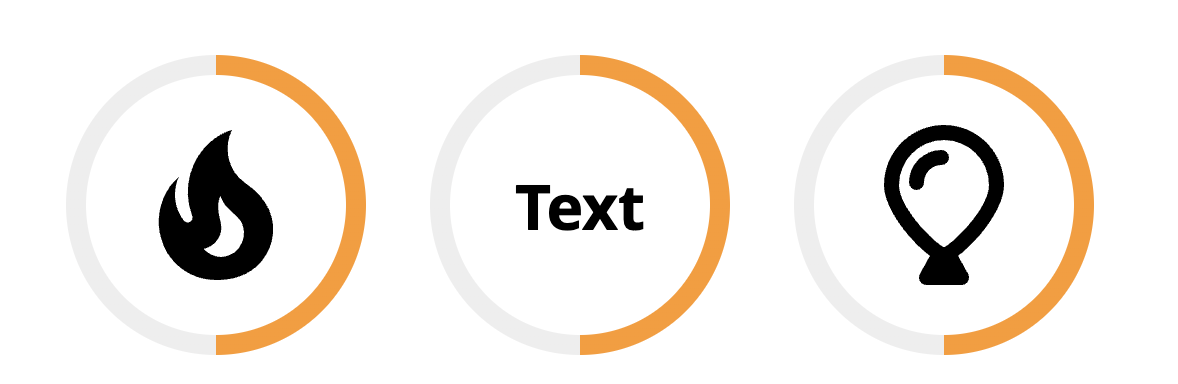
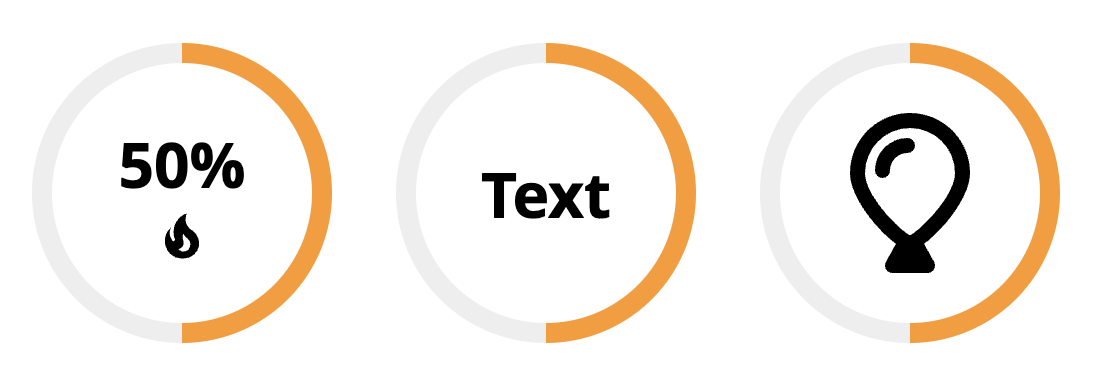
added readme

diff --git a/src/routes/+page.svelte b/src/routes/+page.svelte
@@ -80,8 +80,8 @@
   <h1>Custom content</h1>
   <div class="showingrid">
 
-  <Progress size="150" progress="50" customContent=true>
-    <svg width="100" height="100" viewBox="0 0 24 24"> <path fill="#000" d="M17.55,11.2C17.32,10.9 17.05,10.64 16.79,10.38C16.14,9.78 15.39,9.35 14.76,8.72C13.3,7.26 13,4.85 13.91,3C13,3.23 12.16,3.75 11.46,4.32C8.92,6.4 7.92,10.07 9.12,13.22C9.16,13.32 9.2,13.42 9.2,13.55C9.2,13.77 9.05,13.97 8.85,14.05C8.63,14.15 8.39,14.09 8.21,13.93C8.15,13.88 8.11,13.83 8.06,13.76C6.96,12.33 6.78,10.28 7.53,8.64C5.89,10 5,12.3 5.14,14.47C5.18,14.97 5.24,15.47 5.41,15.97C5.55,16.57 5.81,17.17 6.13,17.7C7.17,19.43 9,20.67 10.97,20.92C13.07,21.19 15.32,20.8 16.93,19.32C18.73,17.66 19.38,15 18.43,12.72L18.3,12.46C18.1,12 17.83,11.59 17.5,11.21L17.55,11.2M14.45,17.5C14.17,17.74 13.72,18 13.37,18.1C12.27,18.5 11.17,17.94 10.5,17.28C11.69,17 12.39,16.12 12.59,15.23C12.76,14.43 12.45,13.77 12.32,13C12.2,12.26 12.22,11.63 12.5,10.94C12.67,11.32 12.87,11.7 13.1,12C13.86,13 15.05,13.44 15.3,14.8C15.34,14.94 15.36,15.08 15.36,15.23C15.39,16.05 15.04,16.95 14.44,17.5H14.45Z" /> </svg>
+  <Progress size="150" progress="50" customContent=false>
+    <svg width="30" height="30" viewBox="0 0 24 24"> <path fill="#000" d="M17.55,11.2C17.32,10.9 17.05,10.64 16.79,10.38C16.14,9.78 15.39,9.35 14.76,8.72C13.3,7.26 13,4.85 13.91,3C13,3.23 12.16,3.75 11.46,4.32C8.92,6.4 7.92,10.07 9.12,13.22C9.16,13.32 9.2,13.42 9.2,13.55C9.2,13.77 9.05,13.97 8.85,14.05C8.63,14.15 8.39,14.09 8.21,13.93C8.15,13.88 8.11,13.83 8.06,13.76C6.96,12.33 6.78,10.28 7.53,8.64C5.89,10 5,12.3 5.14,14.47C5.18,14.97 5.24,15.47 5.41,15.97C5.55,16.57 5.81,17.17 6.13,17.7C7.17,19.43 9,20.67 10.97,20.92C13.07,21.19 15.32,20.8 16.93,19.32C18.73,17.66 19.38,15 18.43,12.72L18.3,12.46C18.1,12 17.83,11.59 17.5,11.21L17.55,11.2M14.45,17.5C14.17,17.74 13.72,18 13.37,18.1C12.27,18.5 11.17,17.94 10.5,17.28C11.69,17 12.39,16.12 12.59,15.23C12.76,14.43 12.45,13.77 12.32,13C12.2,12.26 12.22,11.63 12.5,10.94C12.67,11.32 12.87,11.7 13.1,12C13.86,13 15.05,13.44 15.3,14.8C15.34,14.94 15.36,15.08 15.36,15.23C15.39,16.05 15.04,16.95 14.44,17.5H14.45Z" /> </svg>
   </Progress>  
 
   <Progress size="150" progress="50" customContent="true">

diff --git a/README.md b/README.md
@@ -1,58 +1,112 @@
-# create-svelte
+# Progress circle for SvelteKit
 
-Everything you need to build a Svelte library, powered by [`create-svelte`](https://github.com/sveltejs/kit/tree/master/packages/create-svelte).
-
-Read more about creating a library [in the docs](https://kit.svelte.dev/docs/packaging).
-
-## Creating a project
-
-If you're seeing this, you've probably already done this step. Congrats!
-
-```bash
-# create a new project in the current directory
-npm create svelte@latest
-
-# create a new project in my-app
-npm create svelte@latest my-app
+## Install
+Use your package manager to install the module:
+```shell
+npm install @bonosoft/sveltekit-progress
 ```
 
-## Developing
+## Adding Progress to a svelte file in SvelteKit
+Now you can start adding progress components to your pages.
+```ts
+<script lang="ts">
+	import Progress from "@bonosoft/sveltekit-progress"
+</script>
 
-Once you've created a project and installed dependencies with `npm install` (or `pnpm install` or `yarn`), start a development server:
-
-```bash
-npm run dev
-
-# or start the server and open the app in a new browser tab
-npm run dev -- --open
+<Progress progress="50"/>
 ```
 
-Everything inside `src/lib` is part of your library, everything inside `src/routes` can be used as a showcase or preview app.
-
-## Building
-
-To build your library:
-
-```bash
-npm run package
+# Sample code
+![Progress circles](https://github.com/bonosoft/sveltekit-progress/blob/c0bd0533f7766ad54eca52ef3121d0d657d8b2be/readme/style1.png?raw=true)
+```ts
+<Progress progress="0"/>
+<Progress progress="25"/>
+<Progress progress="50"/>
+<Progress progress="75"/>
+<Progress progress="100"/>
 ```
 
-To create a production version of your showcase app:
+## Front, back and border colors, for use in dark mode
 
-```bash
-npm run build
+![Progress circles](https://github.com/bonosoft/sveltekit-progress/blob/c0bd0533f7766ad54eca52ef3121d0d657d8b2be/readme/style2.png?raw=true)
+
+```ts
+<Progress progress="0"   textColor="#eee" bgcolor="#111" borderColor="#333"/>
+<Progress progress="25"  textColor="#eee" bgcolor="#111" borderColor="#333"/>
+<Progress progress="50"  textColor="#eee" bgcolor="#111" borderColor="#333"/>
+<Progress progress="75"  textColor="#eee" bgcolor="#111" borderColor="#333"/>
+<Progress progress="100" textColor="#eee" bgcolor="#111" borderColor="#333"/>
+
+<Progress progress="30" color="#29F" textColor="#eee" bgcolor="#111" borderColor="#333"/>
+<Progress progress="40" color="#2F2" textColor="#eee" bgcolor="#111" borderColor="#333"/>
+<Progress progress="50" color="#F92" textColor="#eee" bgcolor="#111" borderColor="#333"/>
+<Progress progress="60" color="#F22" textColor="#eee" bgcolor="#111" borderColor="#333"/>
+<Progress progress="70" color="#92F" textColor="#eee" bgcolor="#111" borderColor="#333"/>
 ```
 
-You can preview the production build with `npm run preview`.
 
-> To deploy your app, you may need to install an [adapter](https://kit.svelte.dev/docs/adapters) for your target environment.
+## Front, back and border colors
 
-## Publishing
+![Progress circles](https://github.com/bonosoft/sveltekit-progress/blob/c0bd0533f7766ad54eca52ef3121d0d657d8b2be/readme/style3.png?raw=true)
 
-Go into the `package.json` and give your package the desired name through the `"name"` option. Also consider adding a `"license"` field and point it to a `LICENSE` file which you can create from a template (one popular option is the [MIT license](https://opensource.org/license/mit/)).
+```ts
+<Progress progress="30" color="#29F" textColor="#29F"/>
+<Progress progress="40" textColor="#F22"/>
+<Progress progress="50" textColor="#29F" labelText="Online"/>
+<Progress progress="60" labelText="Backup"/>
+<Progress progress="70" textColor="#292" borderColor="#F22"/>
+```
 
-To publish your library to [npm](https://www.npmjs.com):
 
-```bash
-npm publish
+
+## Size
+
+![Progress circles](https://github.com/bonosoft/sveltekit-progress/blob/c0bd0533f7766ad54eca52ef3121d0d657d8b2be/readme/style4.png?raw=true)
+
+```ts
+<Progress progress=0 size=30/>
+<Progress progress=25 size=50/>
+<Progress progress=50 size=70/>
+<Progress progress=75 size=90/>
+<Progress progress=100 size=110/>
+```
+
+
+## Border width
+
+![Progress circles](https://github.com/bonosoft/sveltekit-progress/blob/c0bd0533f7766ad54eca52ef3121d0d657d8b2be/readme/style5.png?raw=true)
+```ts
+<Progress progress=0 borderWeight="1"/>
+<Progress progress=25 borderWeight="3"/>
+<Progress progress=50 borderWeight="8"/>
+<Progress progress=75 borderWeight="15"/>
+<Progress progress=100 borderWeight="20"/>
+```
+
+## Border radius
+
+![Progress circles](https://github.com/bonosoft/sveltekit-progress/blob/c0bd0533f7766ad54eca52ef3121d0d657d8b2be/readme/style6.png?raw=true)
+```ts
+<Progress progress=12.5 borderRadius=0/>
+<Progress progress=25 borderRadius=15/>
+<Progress progress=50 borderRadius=30/>
+<Progress progress=85 borderRadius=40/>
+<Progress progress=100 borderRadius=50/>
+```
+
+## Showing you own center content
+
+![Progress circles](https://github.com/bonosoft/sveltekit-progress/blob/c0bd0533f7766ad54eca52ef3121d0d657d8b2be/readme/style7.png?raw=true)
+```ts
+<Progress size="150" progress="50" customContent=false>
+ <svg width="30" height="30" viewBox="0 0 24 24"> <path.../> </svg>
+</Progress>  
+
+<Progress size="150" progress="50" customContent="true">
+ Text
+</Progress>  
+
+<Progress size="150" progress="50" customContent="true">
+ <svg width="80" height="80" viewBox="0 0 384 512"><path.../></svg>
+</Progress>  
 ```
